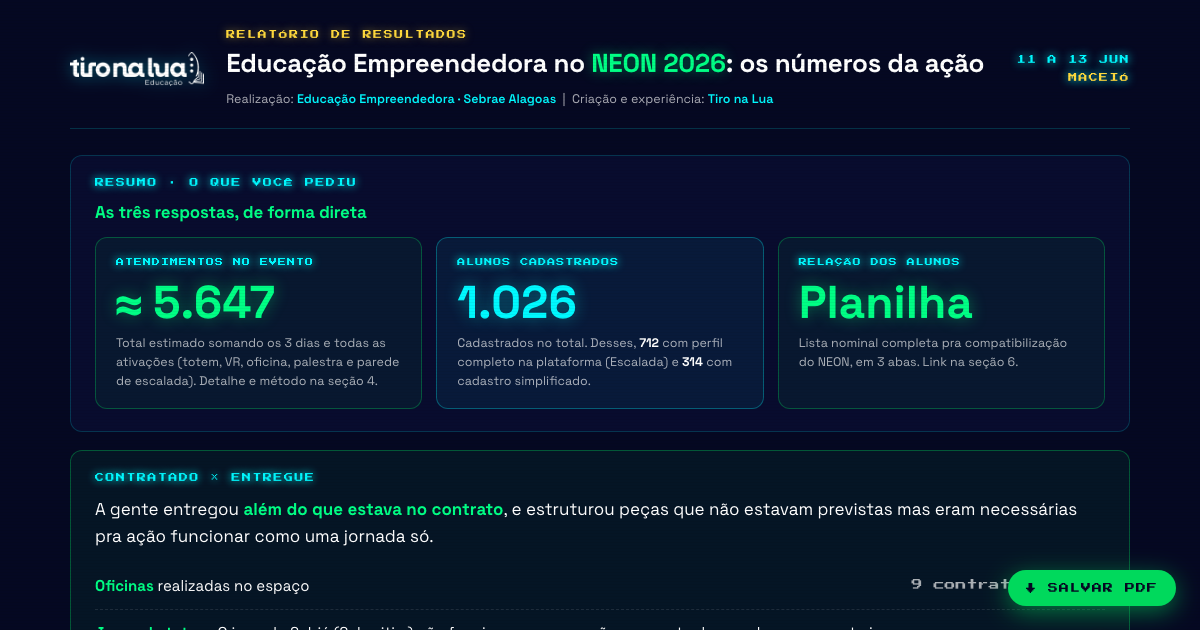
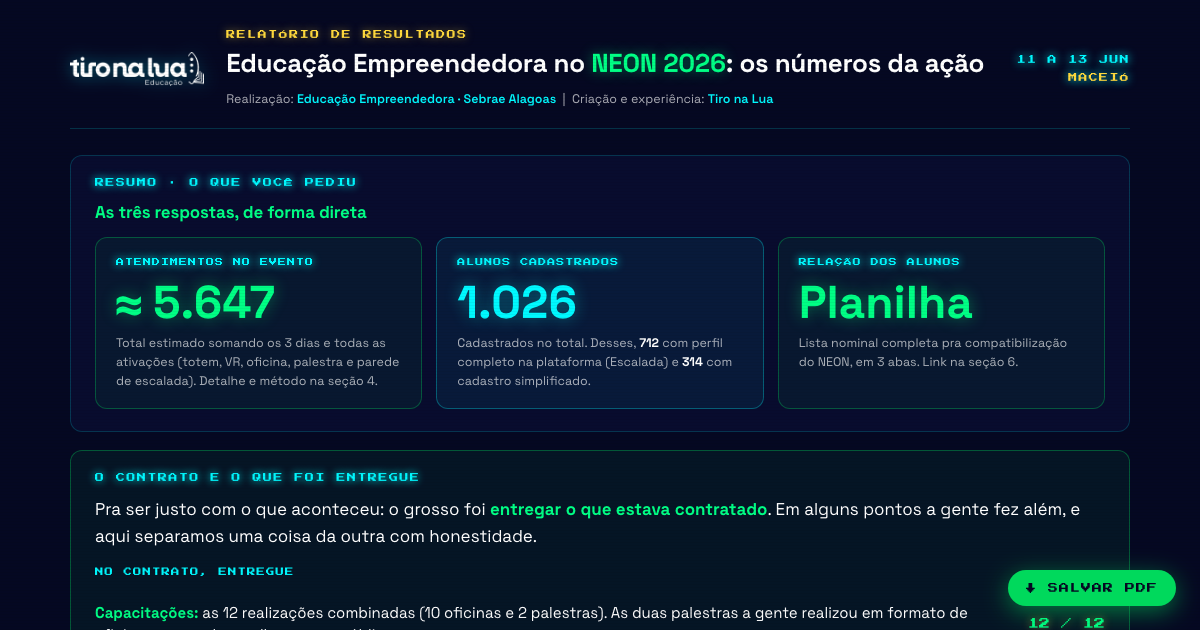
Ajuste conservador no contratado x entregue do relatorio Neon
Correcao apos conferir as propostas (Capacitacoes: 10 oficinas + 2 palestras
= 12 realizacoes contratadas; Gamificada: 3 jogos). Removido o falso over
delivery de oficinas (12 ja era o contrato; as 2 palestras viraram oficina,
mudanca de formato). Separado em 'no contrato, entregue' vs 'alem do contrato'
(4o jogo, gestao de fluxo, credenciamento, apoio a entrada no Escalada com
700+ estudantes). Removidos em-dashes do material de cliente.

diff --git a/resultados/index.html b/resultados/index.html
@@ -4,7 +4,7 @@
 <meta charset="UTF-8" />
 <meta name="viewport" content="width=device-width, initial-scale=1, viewport-fit=cover" />
 <meta name="theme-color" content="#050822" />
-<title>NEON 2026 · Resultados da Educação Empreendedora — Sebrae AL × Tiro na Lua</title>
+<title>NEON 2026 · Resultados da Educação Empreendedora · Sebrae AL × Tiro na Lua</title>
 
 <meta property="og:title" content="NEON 2026 · Resultados da Educação Empreendedora" />
 <meta property="og:description" content="Os números da ação no NEON Sebrae AL: atendimentos, alunos cadastrados, jogos do totem reutilizáveis e o que entregamos além do contrato. Realização Sebrae Alagoas, criação Tiro na Lua." />
@@ -292,15 +292,19 @@ footer .stamp { font-family: 'Press Start 2P', monospace; font-size: 9px; color:
 
     <!-- CONTRATADO VS ENTREGUE -->
     <div class="block spot full">
-      <div class="tag">CONTRATADO × ENTREGUE</div>
-      <p class="lead">A gente entregou <span class="hl">além do que estava no contrato</span>, e estruturou peças que não estavam previstas mas eram necessárias pra ação funcionar como uma jornada só.</p>
-      <ul class="cve" style="margin-top:14px">
-        <li><span class="what"><b>Oficinas</b> realizadas no espaço</span><span class="delta"><span class="from">9 contratadas →</span> 12</span></li>
-        <li><span class="what"><b>Jogos do totem.</b> O jogo do Sabiá (Sabraitim) não funcionou na operação, e a gente desenvolveu um quarto jogo no lugar pra não deixar buraco na experiência.</span><span class="delta"><span class="from">3 contratados →</span> 4</span></li>
-        <li><span class="what"><b>A costura da jornada (Lunoscópio).</b> Toda a jornada do participante — storytelling, personagem e a amarração das experiências numa subida só.</span><span class="delta">+ extra</span></li>
-        <li><span class="what"><b>Gestão do fluxo</b> entre as caravanas e as experiências do espaço.</span><span class="delta">+ extra</span></li>
-        <li><span class="what"><b>Gestão do credenciamento</b> dos estudantes (cadastro, crachá numerado, perfis).</span><span class="delta">+ extra</span></li>
-        <li><span class="what"><b>Gestão do lançamento</b> dos atendimentos dos eventos.</span><span class="delta">+ extra</span></li>
+      <div class="tag">O CONTRATO E O QUE FOI ENTREGUE</div>
+      <p class="lead">Pra ser justo com o que aconteceu: o grosso foi <span class="hl">entregar o que estava contratado</span>. Em alguns pontos a gente fez além, e aqui separamos uma coisa da outra com honestidade.</p>
+      <p class="sec" style="margin-top:16px;color:var(--ciano);font-family:'Press Start 2P',monospace;font-size:8.5px;letter-spacing:1px">NO CONTRATO, ENTREGUE</p>
+      <ul class="cve">
+        <li><span class="what"><b>Capacitações:</b> as 12 realizações combinadas (10 oficinas e 2 palestras). As duas palestras a gente realizou em formato de oficina, que rendeu melhor com o público em caravana.</span><span class="delta" style="color:var(--verde-claro)">12 / 12</span></li>
+        <li><span class="what"><b>Jogos do totem:</b> 3 jogos autorais nos 4 totens, com mediação da equipe nos 3 dias.</span><span class="delta" style="color:var(--verde-claro)">entregue</span></li>
+      </ul>
+      <p class="sec" style="margin-top:18px;color:var(--amarelo);font-family:'Press Start 2P',monospace;font-size:8.5px;letter-spacing:1px">ALÉM DO CONTRATO</p>
+      <ul class="cve">
+        <li><span class="what"><b>Um quarto jogo.</b> O jogo do Sabiá não engatou na operação, então a gente desenvolveu outro no lugar e fechou com 4 jogos no ar.</span><span class="delta">+ 1 jogo</span></li>
+        <li><span class="what"><b>Gestão do fluxo</b> das caravanas e das pessoas pelo espaço, ao longo dos 3 dias.</span><span class="delta">+ extra</span></li>
+        <li><span class="what"><b>Gestão do credenciamento</b> dos estudantes, incluindo o apoio no balcão (cadastro, crachá, perfis).</span><span class="delta">+ extra</span></li>
+        <li><span class="what"><b>Apoio à entrada no Escalada.</b> A gamificação levou mais de 700 estudantes pra dentro da plataforma.</span><span class="delta">+ extra</span></li>
       </ul>
     </div>
 
@@ -350,7 +354,7 @@ footer .stamp { font-family: 'Press Start 2P', monospace; font-size: 9px; color:
         <tr><td>Palestras</td><td class="num"><b>90</b></td></tr>
         <tr class="tot"><td>TOTAL ESTIMADO</td><td class="num">≈ 5.647</td></tr>
       </table>
-      <p class="sec">1 atendimento = 1 estudante numa ativação, num dos 3 dias. Parte é contagem real (coletada nos tablets) e parte é estimativa, nos dias/ativações em que a coleta falhou — por isso "estimado". A regra de cada estimativa está documentada no relatório técnico.</p>
+      <p class="sec">1 atendimento = 1 estudante numa ativação, num dos 3 dias. Parte é contagem real (coletada nos tablets) e parte é estimativa, nos dias/ativações em que a coleta falhou, por isso "estimado". A regra de cada estimativa está documentada no relatório técnico.</p>
     </div>
 
     <!-- CADASTROS DETALHE -->
@@ -365,7 +369,7 @@ footer .stamp { font-family: 'Press Start 2P', monospace; font-size: 9px; color:
         <tr><td>Cadastro legado (menores)</td><td>Simplificado</td><td class="num">70</td></tr>
         <tr class="tot"><td>TOTAL</td><td></td><td class="num">1.026</td></tr>
       </table>
-      <p class="sec"><b style="color:var(--branco)">712</b> perfis completos (entram na plataforma Escalada do jeito tradicional). <b style="color:var(--branco)">314</b> simplificados — boa parte são estudantes menores, em que pedimos só nome e instituição de ensino.</p>
+      <p class="sec"><b style="color:var(--branco)">712</b> perfis completos (entram na plataforma Escalada do jeito tradicional). <b style="color:var(--branco)">314</b> simplificados, boa parte estudantes menores, em que pedimos só nome e instituição de ensino.</p>
     </div>
 
     <!-- LANÇAMENTO -->
@@ -373,8 +377,8 @@ footer .stamp { font-family: 'Press Start 2P', monospace; font-size: 9px; color:
       <div class="tag">6 · LANÇAMENTO DOS ATENDIMENTOS · PONTOS PRA ALINHAR COM VOCÊS</div>
       <p class="lead">Os atendimentos aconteceram. O que a gente quer fechar com vocês é <span class="hl">como registrar isso da forma certa no sistema</span>, porque essa configuração de evento traz situações novas e a gente prefere combinar antes de lançar.</p>
       <ul class="hooks" style="margin-top:14px">
-        <li><span><strong>Tem dois tipos de cadastro.</strong> Parte dos estudantes tem o cadastro completo (dá pra lançar via orientação técnica). Outra parte são menores com cadastro simplificado (nome + instituição) — esses não entram pela orientação técnica tradicional, só via lista.</span></li>
-        <li><span><strong>Boa parte do total é estimativa.</strong> Nos dias e ativações em que a coleta por tablet falhou, sabemos que os atendimentos aconteceram, mas não temos o registro nominal de cada pessoa — então não dá pra amarrar um nome a cada um desses.</span></li>
+        <li><span><strong>Tem dois tipos de cadastro.</strong> Parte dos estudantes tem o cadastro completo (dá pra lançar via orientação técnica). Outra parte são menores com cadastro simplificado (nome + instituição), e esses não entram pela orientação técnica tradicional, só via lista.</span></li>
+        <li><span><strong>Boa parte do total é estimativa.</strong> Nos dias e ativações em que a coleta por tablet falhou, sabemos que os atendimentos aconteceram, mas não temos o registro nominal de cada pessoa, então não dá pra amarrar um nome a cada um desses.</span></li>
         <li><span><strong>O que precisamos decidir juntos:</strong> dá pra subir uma parte via orientação técnica e outra via lista, na mesma ação? Como vocês preferem tratar os atendimentos estimados, que não têm nome? E os menores, qual o caminho?</span></li>
       </ul>
       <p style="margin-top:13px">Sugestão: um bate-papo rápido pra fechar esses três pontos. A gente já chega com os dados organizados pra lançar do jeito que vocês indicarem.</p>